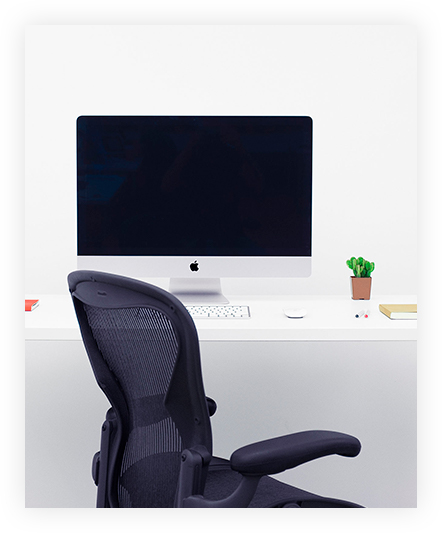
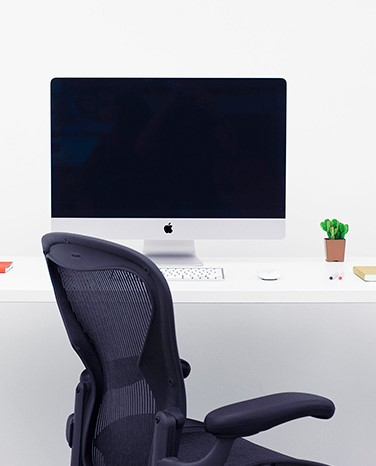
added fetured works

diff --git a/index.html b/index.html
@@ -27,7 +27,7 @@
             <a class="btn-contact" href="#">contact us</a>
         </div>
         <div class="glass">
-            <img src="img/Juice Glass.svg" alt="">
+            <img src="img/glass.jpg" alt="">
         </div>
     </div>
     <!------about us-------------------->
@@ -39,23 +39,54 @@
         <div class="wraper">
             <div class="about__img">
                 <img src="img/bacground.jpg" alt="">
-                <img src="img/mac.jpg" alt="">
+                <img class="info-img" src="img/chair.jpg" alt="">
+                <img class="dot" src="img/copy.jpg" alt="">
+                
             </div> 
             <div class="about__info">
-                <div class="info__title">We Actually Do amazing works</div>
-                <p>A visual approach is an approach to a runway at an airport 
+                <div class="info__title">We Actually Do amazing works
+                <p >A visual approach is an approach to a runway at an airport 
                     conducted under instrument flight rules. The pilot must at all times have either the airport or the preceding aircraft in approach correct sight. conducted under instrument flight rules. The pilot must at all times.</p>
-                <p>
-                    Preceding aircraft in approach correct sight. conducted under instrument flight rules.</p>
-                <div class="info__subtitle">why we are the great?</div>
+                <p> Preceding aircraft in approach correct sight. conducted under instrument flight rules.</p>
+                </div>
+                <div class="info__subtitle">why we are the great?
                     <p>A visual approach is an approach to a runway at an airport 
                         conducted under instrument flight rules.
                         The preceding aircraft in approach correct sight.</p>
-                
-            </div> 
-        </div>
-            
+                </div>    
+            </div>
+        </div>    
     </div>
+
+    <!---------------featured works-->
+    <div class="works">
+        <div class="about-title">
+            <h3 class="title__info">featured works</h3>
+            <p class="subtitle__info">Lorem ipsum dolor sit amet event landing template</p>
+        </div> 
+        <div class="gallery">
+            <div class="cake">
+                <img src="img/cake.jpg" alt="">
+            </div>
+            <div class="boxes">
+                <img src="img/boxes.jpg" alt="">
+             </div>
+             <div class="bottle">
+                 <img src="img/book.jpg" alt="">
+             </div>
+             <div class="book">
+                 <img src="img/book.jpg" alt="">
+             </div>
+             <div class="nine">
+                 <img src="img/nine.jpg" alt="">
+             </div>
+             <div class="tea">
+                 <img src="img/tea.jpg" alt="">
+             </div>
+        </div>
+    </div>
+
+
     
     
 </body>

diff --git a/css/style.css b/css/style.css
@@ -21,9 +21,10 @@ body{
     display: grid;
     grid-template-columns: 2fr 2fr 2fr 1fr 1fr;
     grid-template-rows:repeat(4, 2fr);
-    min-height: 930px;
+    max-height: 930px;
     align-items: center;
     justify-content: center;
+    padding-bottom: 5%;
 } 
 
 
@@ -44,6 +45,16 @@ body{
     padding-right: 150px;
     
 } 
+
+.glass{
+    display: grid;
+    grid-column: 4/5;
+    grid-row: 4/5;
+    align-self: start;
+    
+}
+
+
 
 .title{
     display: block;
@@ -88,6 +99,7 @@ body{
 
 .abous__us{
     background-color: #f8fafa;
+    max-height: 990px;
 } 
 
 .about-title{
@@ -96,7 +108,7 @@ body{
     align-items: center;
     flex-direction: column;
     padding-top: 10%;
-    padding-bottom: 12%;
+    padding-bottom: 10%;
 } 
 
 .title__info{
@@ -104,6 +116,7 @@ body{
     letter-spacing: 2px;
     color: #000000;
     font-weight: 700; 
+    text-transform: uppercase;
 }
 
 .subtitle__info{
@@ -114,17 +127,99 @@ body{
     font-weight: 400;
 }
 
+.wraper{
+    display: grid;
+    grid-template-columns:  minmax(auto, 480px) minmax(auto, 480px);
+    grid-template-rows: 1fr;
+    padding: 0% 5%;
+    column-gap: 2% ;
+    position: relative;
+    justify-content: space-around;
+} 
+
+.about__img{
+    display: grid;
+    grid-column: 1/2;
+    grid-row: 1/1;
+    align-items: center;
+    justify-items: center;
+    overflow: hidden;
+    
+} 
+
+.about__info{
+    
+    grid-column: 2/3;
+    grid-row: 1/1;
+    
+
+} 
+.info-img{
+    display: block;
+    position: absolute;
+    left: 14%;
+    top: -12%;
+    
+}
+.info__title{
+    font-size: 20px;
+    letter-spacing: 1px;
+    line-height: 28px;
+    color: #000000;
+    font-weight: 700;
+    text-transform: uppercase;
+    padding-bottom: 2%;
+} 
+
+.info__title p{
+    font-size: 16px;
+    letter-spacing: 1px;
+    font-weight: 400;
+    font-family:"Raleway";
+    text-transform: none;
+    padding: 2% 0;
+}
+
+.info__subtitle{
+    font-size: 17px;
+    letter-spacing: 1px;
+    line-height: 28px;
+    font-weight: 700;
+    padding-bottom: 2%;
+    text-transform: uppercase;
+}
+
+.info__subtitle p{
+    font-size: 16px;
+    letter-spacing: 1px;
+    font-weight: 400;
+    font-family:"Raleway";
+    text-transform: none;
+}
+
+.dot{
+    display: block;
+    padding-top:20% ;
+    overflow: hidden;
+    padding-left: 8%;
+}
+    
+/*******fetured works********/
+
+.works{
+    padding-bottom: 10%;
+}
 
 
 
 
 
-.wraper 
+.gallery{
+    display: grid;
+    grid-template-columns: repeat(3,auto);
+    grid-template-rows: repeat(2,auto);
+    border: 2px solid red;
+    justify-content: center;
+    gap: 15px;
+}
 
-.about__img 
-
-.about__info 
-
-.info__title 
-
-.info__subtitle 
